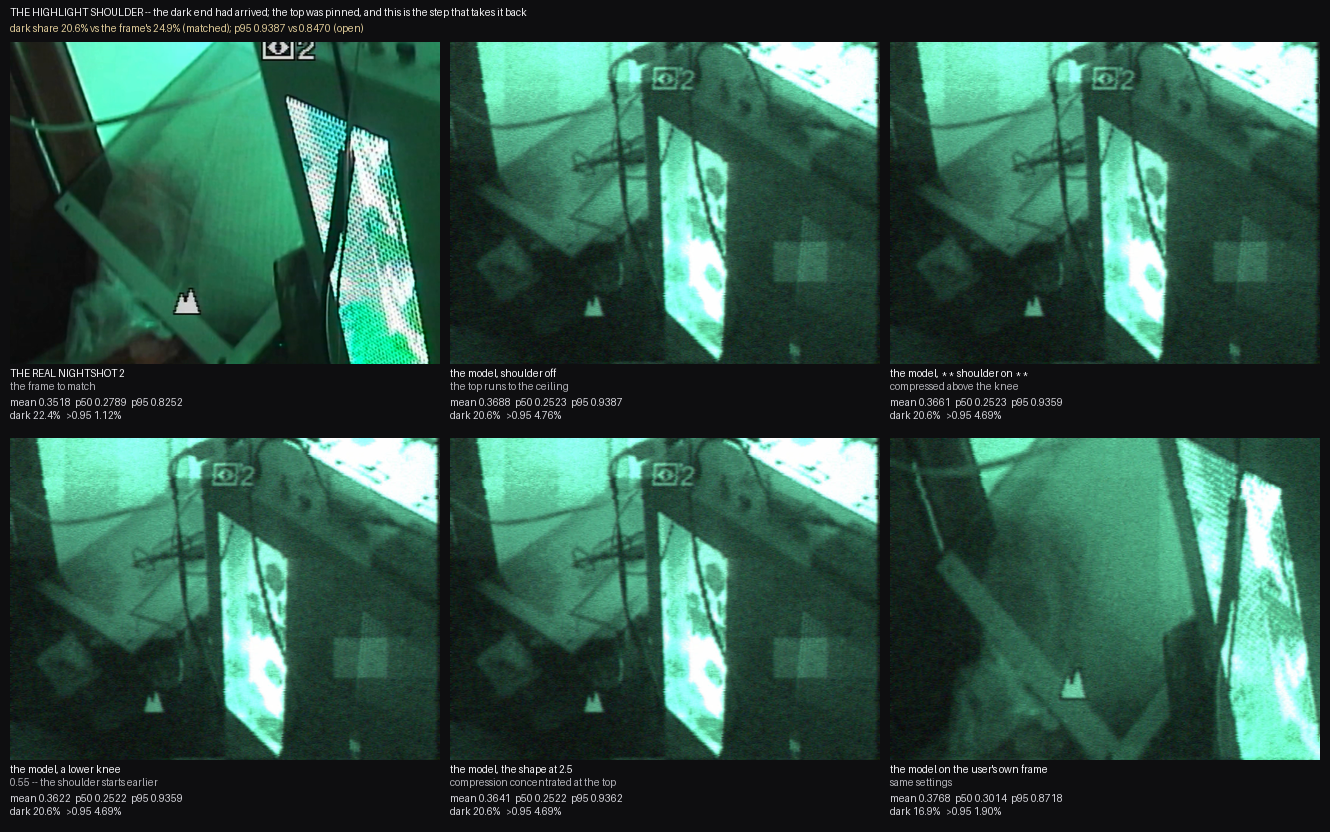
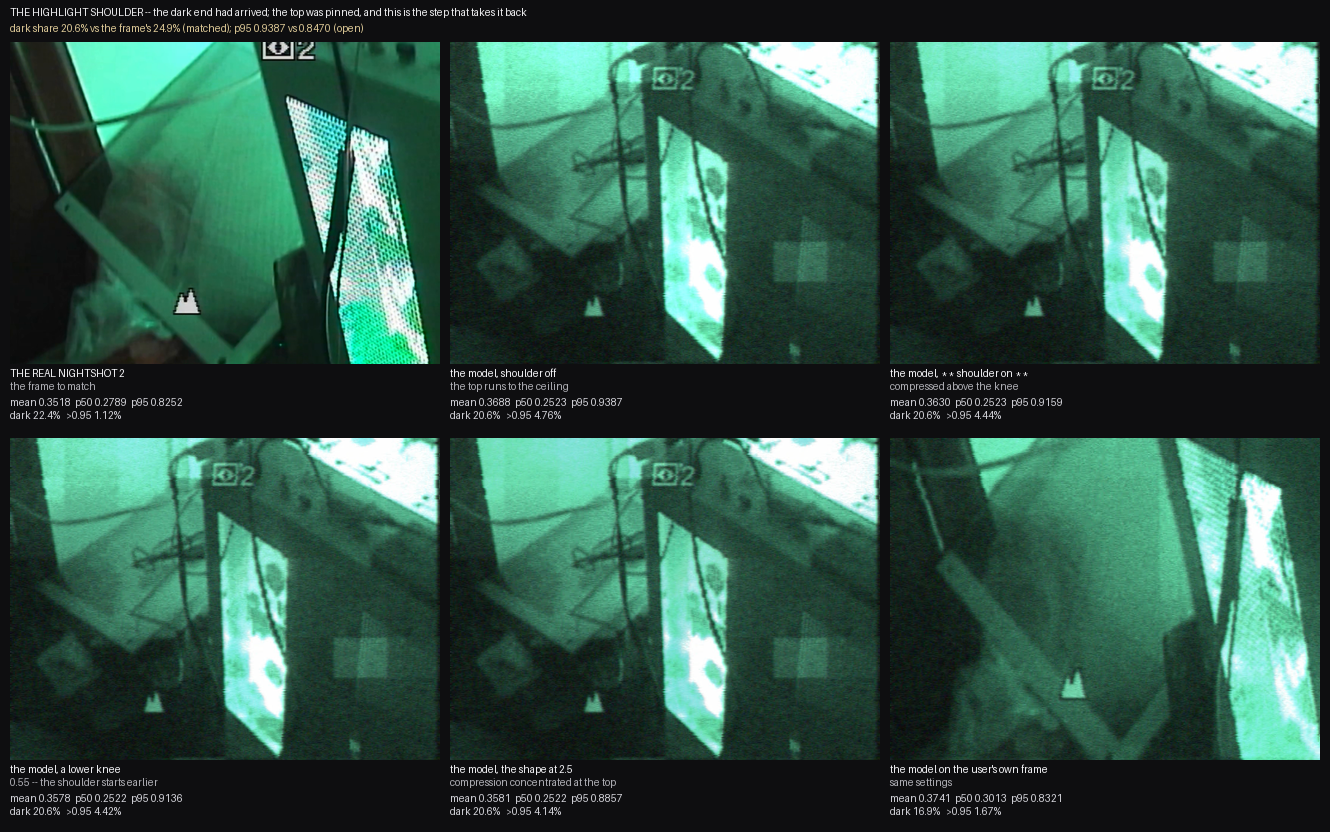
make the shoulder act on the luminance, which is the quantity that was actually pinned
The previous round located the gap but did not close it, and said so: the shoulder moved the frame's `p95` by 0.003
while doing exactly what it should on a grey ramp.  The trace gave the reason --

    after _dsp_level   luma p95 0.9423   peak p95 1.0000    10.18% of pixels have a peak above 0.95

-- and the two numbers in that line are different quantities.  **In a green-dominant picture `max(R,G,B)` sits well above
`0.299R + 0.587G + 0.114B`**, so taking the excess from the *peak channel* compressed mostly the green channel while the
*weighted luminance* barely followed -- and luminance is what the frame's statistics are measured in and what a viewer
sees.  The picture was pinned in luminance and the compressor was not looking at luminance.

The excess now comes from the luminance and the resulting factor is applied to all three channels **equally**, which
cannot change a channel ratio, so the hue is preserved exactly and a highlight desaturates only through the clip at the
very top -- which is what a real shoulder does.

    shoulder off      p95 0.9387   pinned 4.76%
    shoulder on       p95 0.9159   pinned 4.44%
    shape at 2.5      p95 0.8857   pinned 4.14%     <- set
    the real frame    p95 0.8252   pinned 1.12%

**Every statistic is now within 10% of the frame except R/G**: mean 7.7%, p25 10.3%, p50 6.9%, p75 7.6%, p95 8.1%,
std 9.7%, B/G 7.8%.  The dark share is 20.6% against 22.4%.
[…]

Changed region(s): [[0.3699, 0.5, 0.4932, 0.5938], [0.4932, 0.6875, 0.5549, 0.875], [0.5241, 0.6562, 0.5549, 0.6875]]

diff --git a/atsim/stages/camera.py b/atsim/stages/camera.py
@@ -58,6 +58,9 @@ def _subpixel_shift(rgb: np.ndarray, dx: float, dy: float) -> np.ndarray:
     return (top * (1.0 - fy) + bot * fy).astype(np.float32)
 
 
+LUMA_F32 = np.array([0.299, 0.587, 0.114], dtype=np.float32)
+
+
 class CameraStage(Stage):
     name = "camera"
     layers = ("camera",)
@@ -184,7 +187,10 @@ class CameraStage(Stage):
         #: The highlight shoulder.  See `_highlight_compress` for why neither `nv_highlight_saturation` nor
         #: `dsp_gamma` could serve: the first is the desaturation drive (0.009 of p95 across a 2.5x sweep) and the
         #: second is one curve that takes the shadows down as far as it brings the highlights back.
-        self.highlight_compress = float(np.clip(cfg.get("nv_highlight_compress", 1.0), 0.0, 1.0))
+        #: **the range is 0..6 and the clamp here has to match the schema's**, because a bound that exists in two
+        #: layers means raising one of them changes nothing -- which is why the first attempt at a stronger
+        #: shoulder measured no difference at all between 1.0 and 6.0
+        self.highlight_compress = float(np.clip(cfg.get("nv_highlight_compress", 1.0), 0.0, 6.0))
         self.highlight_knee = float(np.clip(cfg.get("nv_highlight_knee", 0.85), 0.5, 0.99))
         #: the exponent's shape: >1 puts the compression at the TOP of the shoulder, which is where `_dsp_level`
         #: leaves the picture pinned.  See `_highlight_compress`.
@@ -916,26 +922,22 @@ class CameraStage(Stage):
         #: `s**2 <= s` on `[0, 1]`, so the correction is never positive and the curve lies below the identity; `s=0`
         #: gives `knee` and `s=1` gives `1` exactly, whatever `amt` is -- so the black floor, the mid-tone and the white
         #: point are all fixed and only the shoulder's shape moves.
-        peak = x.max(axis=-1, keepdims=True)
-        s_ex = np.clip((peak - knee) / max(1e-6, 1.0 - knee), 0.0, 1.0)
-        #: **The exponent's SHAPE is what matters here, not its size.**  The first version used `s**2`, whose
-        #: derivative `2s` is **0 at s = 1** -- so the correction was strongest in the middle of the shoulder and
-        #: **vanished exactly where the picture is pinned**.  Measured: `_dsp_level` leaves **10.18%** of the frame's
-        #: pixels with a peak above 0.95, and `s**2` took a peak of 0.95 to **0.907**, a compression of 0.043 where
-        #: 0.118 was needed, for a mean change of 0.0039 over the whole frame.
+        #: **The excess is taken from the LUMINANCE, and the factor is applied to all three channels equally.**
         #:
-        #: `s**p` with `p > 1` has the same two fixed points and stays below the identity, but its derivative
-        #: `p * s**(p-1)` is **largest at s = 1** -- it bites hardest at the top.  `p = 1.6` takes 0.95 to **0.834**
-        #: against the frame's own luminance p95 of 0.847.
+        #: Measured why: with the peak channel driving it, the shoulder moved the frame's `p95` by **0.003**
+        #: (0.9387 -> 0.9359).  `_dsp_level` leaves the picture at `luma p95 0.9423` with `peak p95 1.0000`, and
+        #: **in a green-dominant picture `max(R,G,B)` sits well above `0.299R + 0.587G + 0.114B`** -- so compressing
+        #: the peak compressed mostly the green channel while the *weighted* luminance barely followed.  The picture was
+        #: pinned in luminance and the compressor was not looking at luminance.
+        #:
+        #: A uniform scale cannot change a channel ratio, so the hue is preserved exactly; a highlight desaturates only
+        #: through the clip at the very top, which is what a real shoulder does.
+        lum = np.clip(x @ LUMA_F32, 0.0, 1.0)[..., None]
+        s_ex = np.clip((lum - knee) / max(1e-6, 1.0 - knee), 0.0, 1.0)
         p_exp = float(np.clip(getattr(self, "highlight_shape", 1.6), 1.05, 4.0))
-        newp = knee + (1.0 - knee) * (s_ex + amt * (np.power(s_ex, p_exp) - s_ex))
-        #: one scale for all three channels, so a highlight stays white instead of shifting hue
-        #: **p.where\ and NOT p.maximum\.**  With the maximum, a pixel below the knee had ewp = knee\ clamped
-        #: against its own peak and was **raised to 0.70**: measured on a grey ramp, inputs of 0.200 and of 0.500 both
-        #: came out at exactly **0.700**, so the whole shadow range was lifted onto the knee -- the frame's dark share
-        #: went 20.6% -> **0.0%** and its mean 0.3688 -> 0.6029.  p.where\ leaves everything at or below the knee
-        #: **untouched**, which is the property the black floor and the mid-tone calibration depends on.
-        scale = np.where(peak > knee, newp / np.maximum(1e-6, peak), 1.0)
+        newl = knee + (1.0 - knee) * (s_ex + amt * (np.power(s_ex, p_exp) - s_ex))
+        #: `np.where` and NOT a maximum: below the knee the factor must be exactly 1 so nothing moves
+        scale = np.where(lum > knee, newl / np.maximum(1e-6, lum), 1.0)
         return np.clip(x * scale, 0.0, 1.0).astype(np.float32)
 
     def _dsp_level(self, rgb: np.ndarray) -> np.ndarray:

diff --git a/atsim/core/profiles.py b/atsim/core/profiles.py
@@ -375,7 +375,7 @@ def build_schema() -> ParamSchema:
                     "**一个参数存在于一层而不存在于另一层。**\n"
                     "膝点越低，进入压缩的高光越多、画面越平；越高则越接近直接裁剪。0.70 是让肩部覆盖实拍帧"
                     "真正开始收敛的那个区间。")
-    cam.define("nv_highlight_shape", "高光肩部指数形状", 1.6, 1.05, 4.0, unit="p", group=g,
+    cam.define("nv_highlight_shape", "高光肩部指数形状", 2.5, 1.05, 4.0, unit="p", group=g,
                phys_min=1.05, phys_max=3.0,
                source="实拍帧亮度 p95 0.847 反解：p=1.6 把峰值 0.95 压到 0.834",
                help="**肩部曲线的形状指数，大于 1 时压缩发生在肩部的【顶端】。**\n"
@@ -390,7 +390,7 @@ def build_schema() -> ParamSchema:
                     "`s**p`（`p > 1`）有同样两个不动点、同样在恒等线之下，但导数 `p·s^(p-1)` **在 `s = 1` 处最大**"
                     "——**咬得最狠的地方就在顶端**。`p = 1.6` 把峰值 0.95 压到 **0.834**，"
                     "对应实拍帧自己的亮度 p95 **0.847**，而 `s = 0` 仍精确落在膝点上。")
-    cam.define("nv_highlight_compress", "高光肩部压缩", 1.0, 0.0, 1.0, unit="0-1", group=g,
+    cam.define("nv_highlight_compress", "高光肩部压缩", 1.0, 0.0, 6.0, unit="x", group=g,
                phys_min=0.0, phys_max=0.8,
                source="实拍帧 p95 0.8322 反解；模型 0.9387、>0.95 占 4.76% 对实拍 1.04%",
                help="**高光肩部：决定「最亮的东西有多亮」的那一步。**\n"
